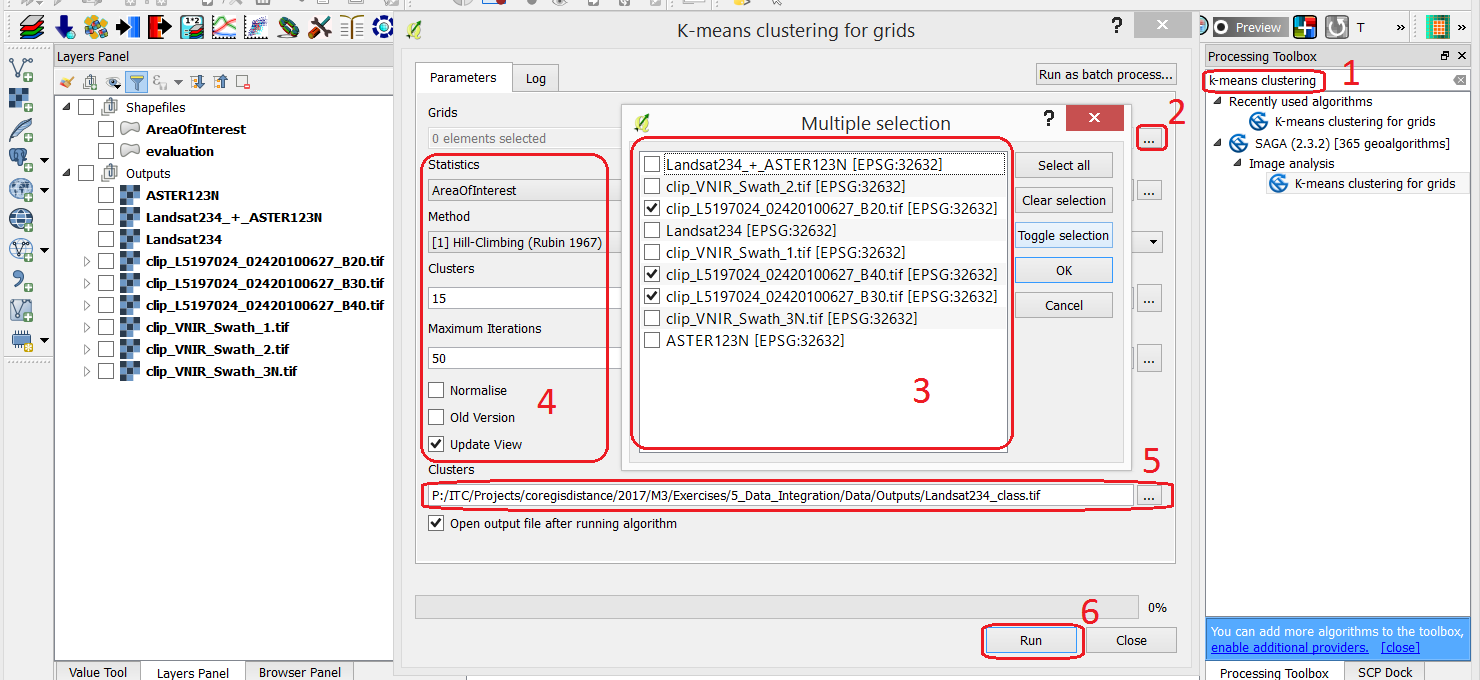
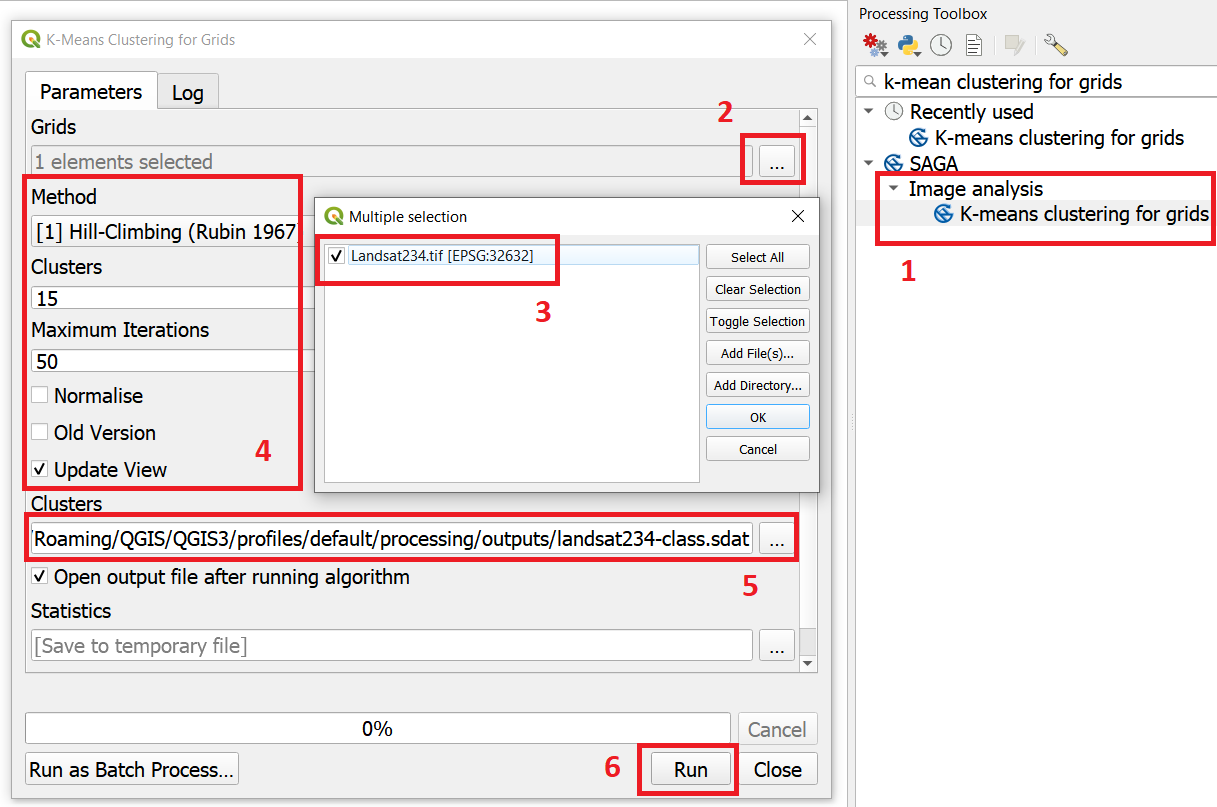
add content to mono-multi exercise

diff --git a/docs/source/mono-vs-multi.rst b/docs/source/mono-vs-multi.rst
@@ -233,4 +233,40 @@ Task 2.7
 Classification
 ----------------
 
-[CONTINUE PAGE 11]
+In this section, we will perform a `unsupervised classification <Unsupervised Image Classification Algorithm>`_ to the band stacks you created in the last section. We will use a  *k-means* clustering algorithm in the classification. 
+
+The unsupervised classification will be applied to each band stack: *Landsat stack, ASTER stack,* and m*ulti-spectral and multi-temporal stack*.
+
+Task 3.1 
+   Uncluter your project by removing the layers you will not need  anymore. Remove the groups *'Landsat'* and *'ASTER'*; keep only the shapefiles and the band stacks.
+
+Task 3.2 
+   From the **Processing** toolbox, open the tool **K-means clustering for grids**, and provide the following parameters (:numref:`fig-unsupervised-classification`): 
+
+   + For :guilabel:`Grids` select the *'Landsat234'* stack;
+
+   + For :guilabel:`Method` keep ``Hill-Climbing``, set :guilabel:`Clusters` to :math:`15`, and :guilabel:`Maximun Iterations` to  :math:`50`.
+
+   + Save the classification results to a file named *'Landsat234_class'*, in the *'Output'* folder; [ONLY sda FORMAT IS ALLOWED. IS IT OK?]
+
+   + Click :guilabel:`Run` to execute the classification.
+
+.. _fig-unsupervised-classification:
+.. figure:: _static/img/unsupervised-classification.png
+   :alt: unsupervised classification
+   :figclass: align-center
+
+   Unsupervised classification using the 'K-Means clustering' tool
+
+Task
+   Repeat the *Unsupervised classification* for the *'ASTER123N'* and the *'Landsat234_+_ASTER123N'* stack.
+   Name the resulting files as *ASTER123N_class* and *Landsat234_ASTER123N_class*, respectively.
+
+   You should now have three distinct Classifications. 
+
+----------------------
+
+Analysis
+------------
+
+[CONTINUE]

diff --git a/docs/source/assets/ltb-links-di.rst b/docs/source/assets/ltb-links-di.rst
@@ -22,3 +22,6 @@
 
 
 .. _Agent-Based: https://ltb.itc.utwente.nl/page/481/concept/78544
+
+.. _Unsupervised Image Classification Algorithm: https://ltb.itc.utwente.nl/page/481/concept/78808
+
